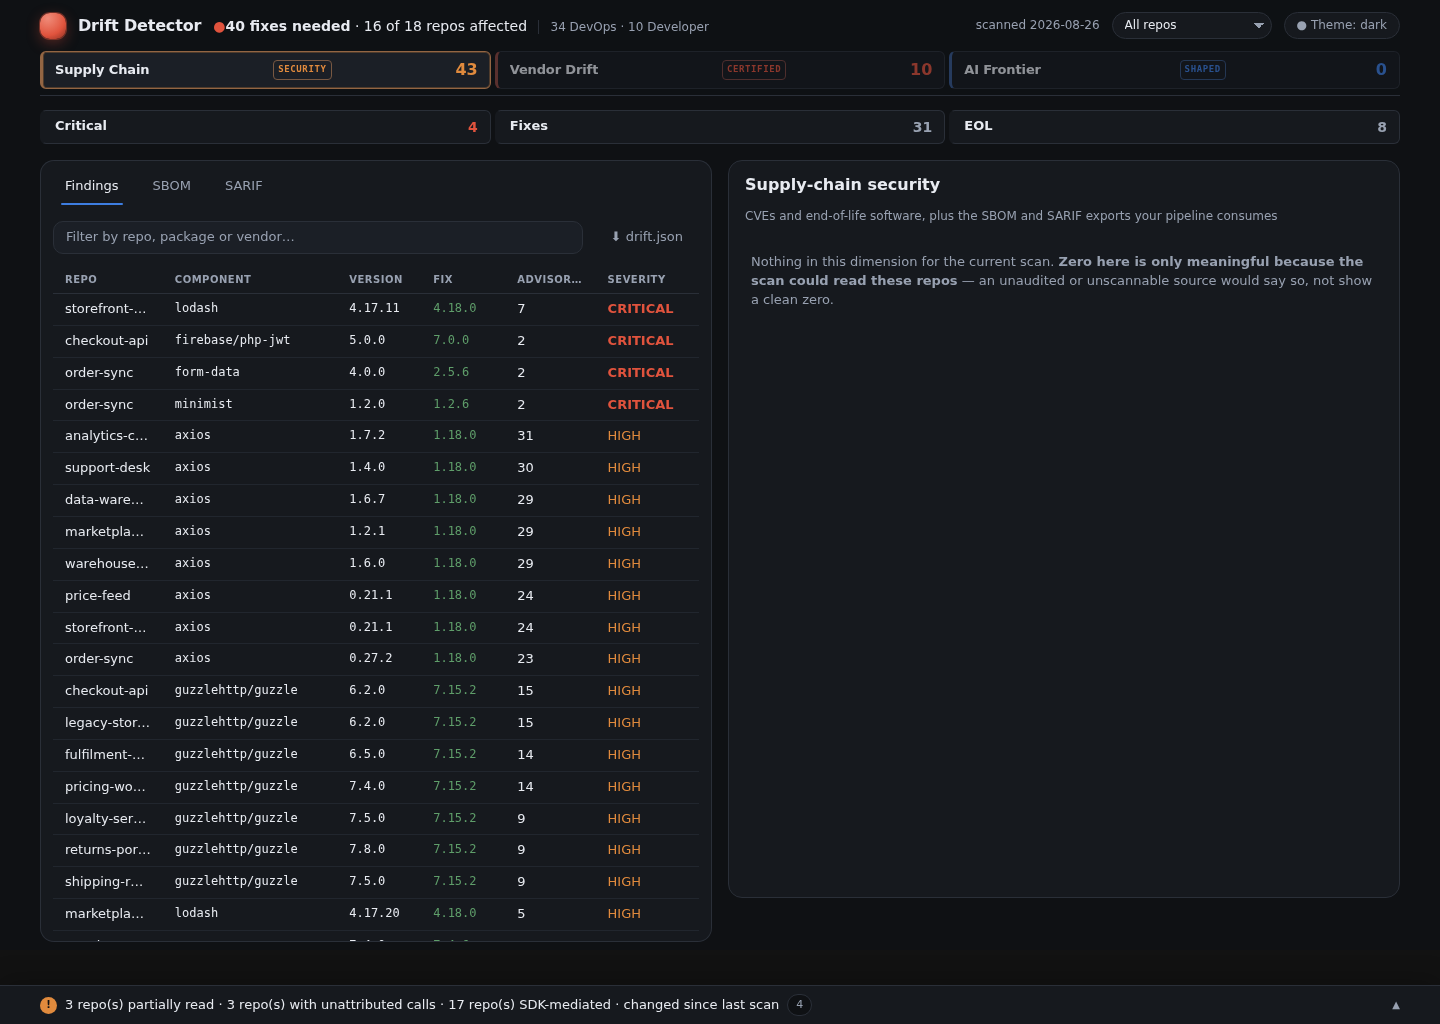
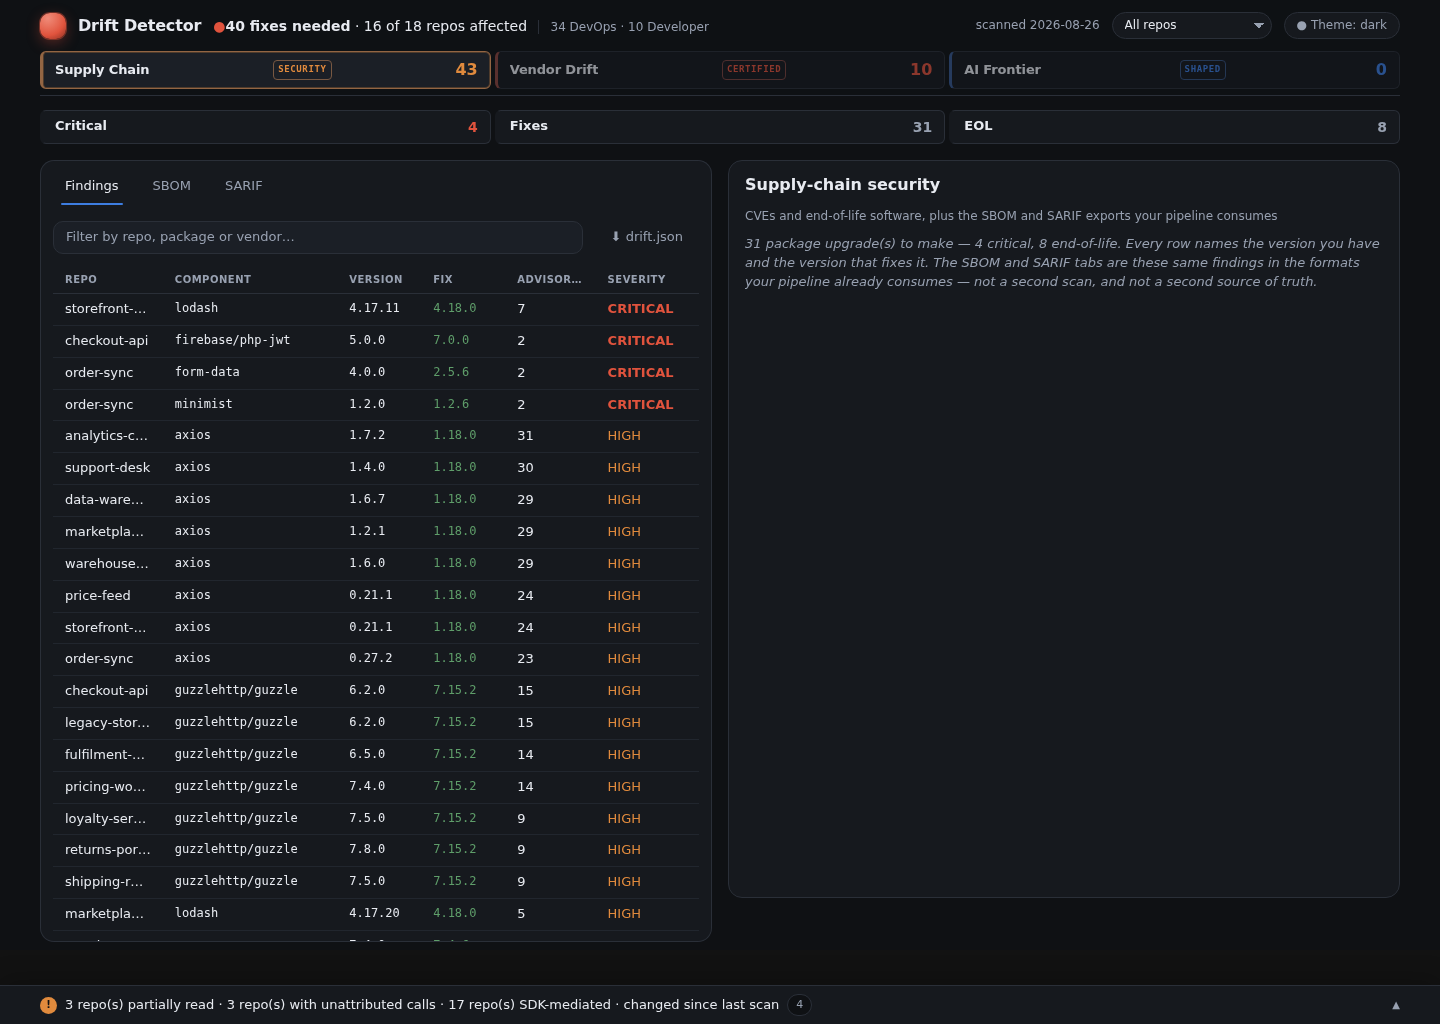
fix(cockpit): stop captioning findings "Nothing in this dimension"
The Supply Chain plane rendered its hero panel as "Nothing in this dimension for
the current scan" directly above a table of 43 CVE and end-of-life rows.

heroMode returns "supply" for that plane, but the template had no branch for it,
so it fell through to the catch-all empty-state written for the AI Frontier. The
heroMode comment already named this exact failure — it falls back to the timeline
"rather than lying with a 'nothing found' empty-state over a tab that plainly has
rows in the table below" — but nothing enforced it.

This is principle 1 inverted. The principle exists to stop the tool rendering
"clean" when it means "could not see"; here it rendered "found nothing" over
findings, which is the same collapse pointed the other way, and it was about to
ship as the README's DevOps screenshot.

The AI Frontier plane had the identical latent defect and is fixed with it: it
shared the same catch-all, so the moment that plane had rows it would have
captioned them the same way. It reads zero today only because a scan with no AI
pass leaves it empty — which is why nobody had seen it.

Both planes now carry their own branch with a true summary, and both keep the
honest empty-state for a genuine zero, guarded on the counts. The catch-all is
now reachable only by heroMode "empty" — a dimension that really has no rows.

Guarded generally rather than by string match: tests/test_dashboard_hero_planes.py
[…]

Changed region(s): [[0.5, 0.2188, 0.9688, 0.3125]]

diff --git a/agent/assets/dashboard.template.html b/agent/assets/dashboard.template.html
@@ -498,10 +498,45 @@
         <p class="empty" v-else>No {{ tab === 'unknown' ? 'untracked' : tab === 'excluded' ? 'excluded asset/library' : tab === 'apis' ? 'tracked' : 'detected' }}
           endpoints found<template v-if="scope"> for {{ repoLabelOf(scope) }}</template>.</p>
       </template>
-      <!-- AI Frontier plane intro: confident framing of the shaped tier (badge, not banner). -->
+      <!-- Supply Chain plane intro. heroMode returns "supply" for this plane but the template
+           had no branch for it, so it fell through to the AI empty-state below: a plane listing
+           dozens of CVE rows was captioned "Nothing in this dimension for the current scan".
+           That is precisely the failure the heroMode comment above says the fallback exists to
+           avoid — "rather than lying with a 'nothing found' empty-state over a tab that plainly
+           has rows in the table below" — and it is principle 1 inverted: rendering "we found
+           nothing" over findings is worse than rendering nothing at all. The zero case still
+           gets the honest empty-state, because a real zero here IS meaningful. -->
+      <template v-else-if="heroMode === 'supply'">
+        <div class="intro" v-if="supplyFixes || counts.critical || counts.eol">
+          {{ supplyFixes }} package upgrade(s) to make — {{ counts.critical }} critical,
+          {{ counts.eol }} end-of-life. Every row names the version you have and the version
+          that fixes it. The SBOM and SARIF tabs are these same findings in the formats your
+          pipeline already consumes — not a second scan, and not a second source of truth.
+        </div>
+        <div class="empty" v-else>Nothing in this dimension for the current scan.
+          <b>Zero here is only meaningful because the scan could read these repos</b> — an
+          unaudited or unscannable source would say so, not show a clean zero.</div>
+      </template>
+      <!-- AI Frontier plane intro: confident framing of the shaped tier (badge, not banner).
+           Branched explicitly for the same reason the Supply Chain branch above exists: this
+           plane shared the catch-all, so once it HAD rows it would have captioned them
+           "Nothing in this dimension for the current scan" exactly as Supply Chain did. The
+           defect was invisible only because a scan with no AI pass leaves this plane at zero. -->
+      <template v-else-if="heroMode === 'ai'">
+        <div class="intro" v-if="shapedCount || researchedCount || leadsCount">
+          {{ shapedCount }} call-site(s) an AI found in code the tool could not read on its own,
+          each re-checked on the spot; {{ researchedCount }} vendor(s) researched,
+          {{ needsHumanCount }} still needing a human. Nothing here is catalogued yet — these
+          stay in this plane until somebody keeps them.
+        </div>
+        <div class="empty" v-else>Nothing in this dimension for the current scan.
+          <b>Zero here is only meaningful because the scan could read these repos</b> — an
+          unaudited or unscannable source would say so, not show a clean zero.</div>
+      </template>
       <!-- honest empty-state (CLAUDE.md principle 1: "cannot see" != "clean") — a zero here
            is only meaningful because the scan could READ these repos; an unaudited or
-           unscannable source would say so in Coverage below, not show a clean zero. -->
+           unscannable source would say so in Coverage below, not show a clean zero. This is now
+           reached ONLY by heroMode "empty", i.e. a dimension that genuinely has no rows. -->
       <template v-else>
         <div class="empty">Nothing in this dimension for the current scan.
           <b>Zero here is only meaningful because the scan could read these repos</b> — an

diff --git a/tests/test_dashboard_hero_planes.py b/tests/test_dashboard_hero_planes.py
@@ -1,0 +1,81 @@
+"""Every value `heroMode` can return must have its own branch in the hero panel.
+
+REGRESSION. `heroMode` returns "supply" for the Supply Chain plane, but the template carried no
+`v-else-if` for it, so that plane fell through to the AI Frontier catch-all — and a plane listing
+dozens of CVE rows was captioned *"Nothing in this dimension for the current scan."*
+
+That is the inverse of CLAUDE.md principle 1. The principle exists to stop the tool rendering
+"clean" when it means "could not see"; here it rendered "found nothing" directly above a table of
+findings, which is the same collapse pointed the other way. `heroMode`'s own comment already said
+so — it falls back to the timeline "rather than lying with a 'nothing found' empty-state over a
+tab that plainly has rows in the table below" — but nothing enforced it.
+
+The guard is deliberately general rather than a string match on "supply": a plane added later with
+no hero branch fails here, which is the shape the defect actually took.
+
+Pure text analysis of the committed assets. No rendering, no browser, no network.
+"""
+from __future__ import annotations
+
+import re
+from pathlib import Path
+
+ASSETS = Path(__file__).resolve().parent.parent / "agent" / "assets"
+APP = ASSETS / "dashboard.app.js"
+TEMPLATE = ASSETS / "dashboard.template.html"
+
+# The one mode that is allowed to have no branch of its own: it IS the catch-all `v-else`,
+# and its copy ("Nothing in this dimension for the current scan") is only correct for a
+# dimension that really is empty.
+CATCH_ALL = "empty"
+
+
+def _hero_modes() -> set[str]:
+    """The string literals `heroMode` can return, read from its own return statements.
+
+    Only `return` statements are scanned: the function also compares against tab names
+    ("apis", "unknown") in its conditions, and those are not modes.
+    """
+    src = APP.read_text(encoding="utf-8")
+    start = src.index("heroMode: function()")
+    end = src.index("heroTitle: function()", start)   # the next sibling computed
+    body = src[start:end]
+    modes: set[str] = set()
+    for stmt in re.findall(r"return\s+([^;]+);", body):
+        modes |= set(re.findall(r'"([a-z]+)"', stmt))
+    return modes
+
+
+def _branched_modes() -> set[str]:
+    """The modes the hero panel actually tests for."""
+    return set(re.findall(r"heroMode === '([a-z]+)'", TEMPLATE.read_text(encoding="utf-8")))
+
+
+def test_every_hero_mode_has_its_own_branch():
+    modes = _hero_modes()
+    assert modes, "could not parse heroMode's return values — the guard would pass vacuously"
+    missing = modes - _branched_modes() - {CATCH_ALL}
+    assert not missing, (
+        f"heroMode can return {sorted(missing)} but the hero panel has no branch for it, so that "
+        f"plane falls through to the catch-all empty-state and captions its findings 'Nothing in "
+        f"this dimension for the current scan'. Give it a branch, or make the empty-state "
+        f"conditional on the dimension actually being empty.")
+
+
+def test_supply_is_the_specific_plane_this_was_written_against():
+    """Named explicitly so the regression cannot be 'fixed' by deleting the general test."""
+    assert "supply" in _hero_modes(), "heroMode no longer returns 'supply' — retire this test"
+    assert "supply" in _branched_modes(), (
+        "the Supply Chain plane lost its hero branch again — it will caption CVE findings "
+        "'Nothing in this dimension for the current scan'")
+
+
+def test_the_empty_state_copy_is_not_reachable_with_findings_present():
+    """The supply branch must guard its empty-state on the counts, not render it unconditionally."""
+    src = TEMPLATE.read_text(encoding="utf-8")
+    branch = src[src.index("heroMode === 'supply'"):]
+    branch = branch[:branch.index("</template>")]
+    assert "Nothing in this dimension" in branch, "the honest zero-state should still exist"
+    assert re.search(r'v-else', branch), (
+        "the supply branch renders its empty-state unconditionally — a zero-state that shows "
+        "regardless of the counts is the original defect wearing a different tag")
